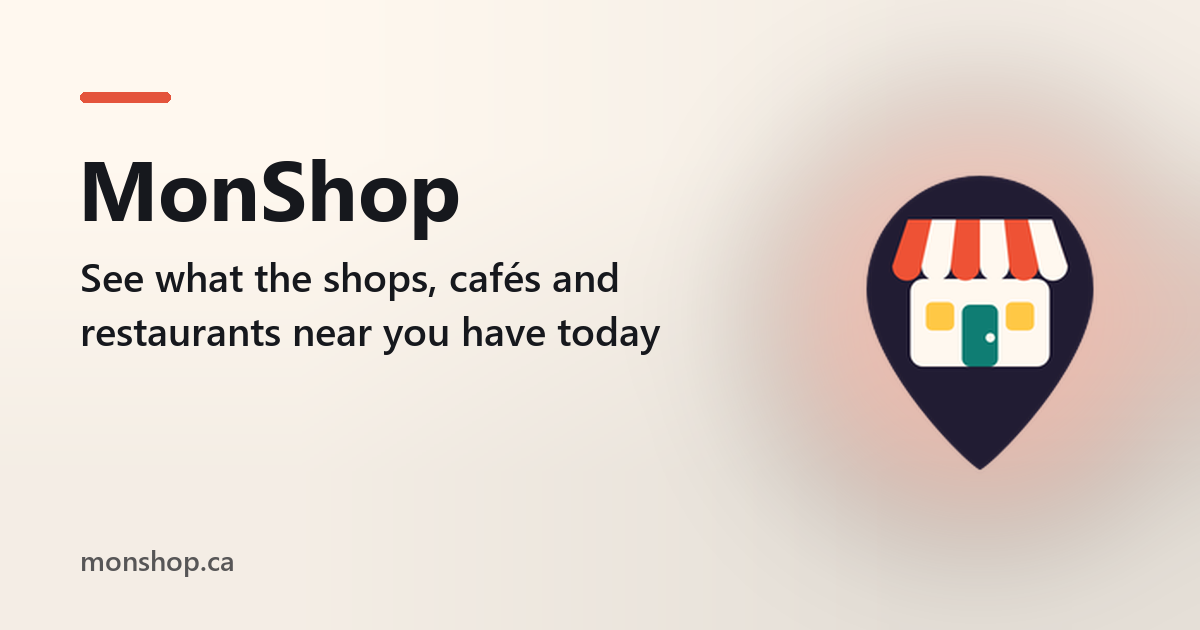
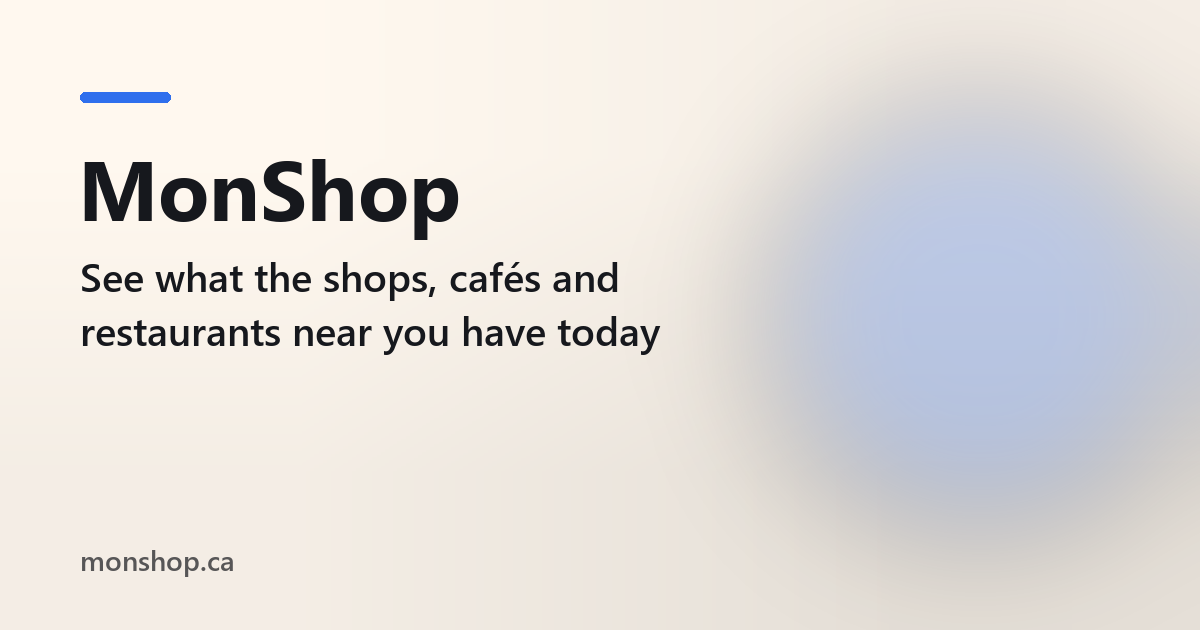
SEO: valid schema.org fields (availableLanguage on ServiceChannel, no browserRequirements on games)

Changed region(s): [[0.6475, 0.2111, 1.0, 0.7841], [0.0617, 0.1206, 0.1542, 0.181]]

diff --git a/server_code/seo_routes.py b/server_code/seo_routes.py
@@ -59,11 +59,11 @@ SEO = {
  ],
  "site": "https://monshop.ca",
  "updated": "2026-11-09",
- "icon": "favicon.png",
+ "icon": "icon-512.png",
  "colors": {
   "bg": "#FFF8EF",
   "ink": "#16181d",
-  "brand": "#e4543c",
+  "brand": "#2f6fed",
   "on": "#ffffff"
  }
 }
@@ -147,18 +147,25 @@ def _ld(o):
         app["serviceType"] = s.get("service_type", s.get("tagline", s["title"]))
         app["provider"] = {"@id": "https://arkvital.com/#org"}
         app["areaServed"] = "Worldwide"
-        app["availableChannel"] = {"@type": "ServiceChannel", "serviceUrl": o + "/", "name": "Web browser"}
+        # availableLanguage belongs on the channel (schema.org has no Service.availableLanguage)
+        app["availableChannel"] = {"@type": "ServiceChannel", "serviceUrl": o + "/", "name": "Web browser",
+                                   "availableLanguage": s.get("lang", "en")}
         del app["inLanguage"], app["publisher"], app["keywords"]
-        app["availableLanguage"] = s.get("lang", "en")
+    if app["@type"] == "ProfessionalService":
+        # an Organization: knowsLanguage, not inLanguage (a CreativeWork field)
+        app["knowsLanguage"] = app.pop("inLanguage")
+        del app["publisher"]
     if app["@type"] in ("WebApplication", "VideoGame"):
         app["applicationCategory"] = s.get("category", "WebApplication")
         app["operatingSystem"] = "Any (web browser)"
+    if app["@type"] == "WebApplication":
         app["browserRequirements"] = "Requires JavaScript and a modern web browser"
+    if app["@type"] in ("WebApplication", "VideoGame"):
         if s.get("features"):
             app["featureList"] = s["features"]
     if s.get("free"):
         app["offers"] = {"@type": "Offer", "price": "0", "priceCurrency": "CAD"}
-    if s.get("audience"):
+    if s.get("audience") and app["@type"] != "ProfessionalService":
         app["audience"] = {"@type": "Audience", "audienceType": s["audience"]}
     page = {"@type": "AboutPage", "@id": o + "/about#page", "url": o + "/about", "name": "About " + s["name"],
             "about": {"@id": o + "/#app"}, "isPartOf": {"@id": o + "/#site"}}
